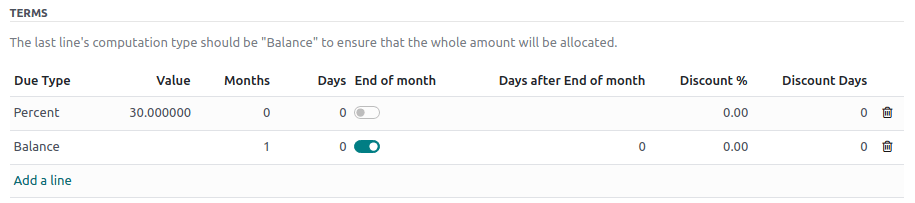
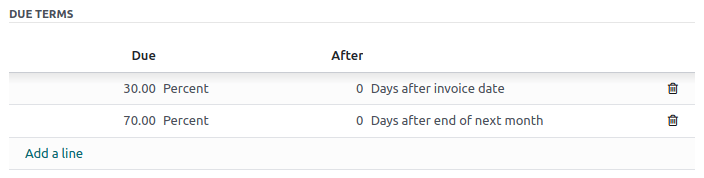
[IMP] accounting: move cash discount tax reduction to payment term
task-3211595

closes odoo/documentation#5260

X-original-commit: ceda988a2912845fe941b134fbd9780058554c71

diff --git a/content/applications/finance/accounting/customer_invoices/cash_discounts.rst b/content/applications/finance/accounting/customer_invoices/cash_discounts.rst
@@ -5,7 +5,7 @@ Cash discounts and tax reduction
 **Cash discounts** are reductions in the amount a customer must pay for goods or services offered as
 an incentive for paying their invoice promptly. These discounts are typically a percentage of the
 total invoice amount and are applied if the customer pays within a specified time. Cash discounts
-can help the company maintain a steady cash flow.
+can help a company maintain a steady cash flow.
 
 .. example::
    You issue a €100 invoice on the 1st of January. The full payment is due within 30 days, and you
@@ -17,15 +17,46 @@ can help the company maintain a steady cash flow.
 A :ref:`tax reduction <cash-discounts/tax-reductions>` can also be applied depending on the country
 or region.
 
+.. seealso::
+   - :doc:`payment_terms`
+   - :doc:`../payments`
+
 .. _cash-discounts/configuration:
 
 Configuration
 =============
 
-To grant cash discounts to customers, you must first set up the :ref:`type of tax reduction
-<cash-discounts/tax-reductions>`, verify the :ref:`gain and loss accounts
-<cash-discounts/gain-loss-accounts>`, and configure new :ref:`payment terms
-<cash-discounts/payment-terms>`.
+To grant cash discounts to customers, you must first verify the :ref:`gain and loss accounts
+<cash-discounts/gain-loss-accounts>`. Then, configure :ref:`payment terms
+<cash-discounts/payment-terms>` and add a cash discount by checking the :guilabel:`Early Discount`
+checkbox and filling in the discount percentage, discount days, and :ref:`tax
+reduction <cash-discounts/tax-reductions>` fields.
+
+.. _cash-discounts/gain-loss-accounts:
+
+Cash discount gain/loss accounts
+--------------------------------
+
+With a cash discount, the amount you earn depends on whether the customer benefits from the cash
+discount or not. This inevitably leads to gains and losses, which are recorded on default accounts.
+
+To modify these accounts, go to :menuselection:`Accounting --> Configuration --> Settings`, and, in
+the :guilabel:`Default Accounts` section, select the accounts you want to use for the
+:guilabel:`Cash Discount Gain account` and :guilabel:`Cash Discount Loss account`.
+
+.. _cash-discounts/payment-terms:
+
+Payment terms
+-------------
+
+Cash discounts are defined on :doc:`payment terms <payment_terms>`. Configure them to your liking by
+going to :menuselection:`Accounting --> Configuration --> Payment Terms`, and make sure to fill out
+the discount percentage, discount days, and :ref:`tax reduction <cash-discounts/tax-reductions>`
+fields.
+
+.. image:: cash_discounts/payment-terms.png
+   :alt: Configuration of payment terms named "2/7 Net 30". The field "Description on Invoices"
+         reads: "Payment terms: 30 Days, 2% Early Payment Discount under 7 days".
 
 .. _cash-discounts/tax-reductions:
 
@@ -33,24 +64,24 @@ Tax reductions
 --------------
 
 Depending on the country or region, the base amount used to compute the tax can vary, which can lead
-to a **tax reduction**.
+to a **tax reduction**. Since tax reductions are set on individual payment terms, each term can use
+a specific tax reduction.
 
-To configure how the tax reduction is applied, go to :menuselection:`Accounting --> Configuration
---> Settings`, and in the :guilabel:`Taxes` section, in the :guilabel:`Cash Discount Tax Reduction`
-feature, select one of the three following options:
+To configure how the tax reduction is applied, go to a payment term with the :guilabel:`Early
+Discount` checkbox enabled, and select one of the three following options:
 
-Always (upon invoice)
-  The tax is always reduced. The base amount used to compute the tax is the discounted amount,
-  whether the customer benefits from the discount or not.
+- Always (upon invoice)
+    The tax is always reduced. The base amount used to compute the tax is the discounted amount,
+    whether the customer benefits from the discount or not.
 
-On early payment
-  The tax is reduced only if the customer pays early. The base amount used to compute the tax is the
-  same as the sale: if the customer benefits from the reduction, then the tax is reduced. This means
-  that, depending on the customer, the tax amount can vary after the invoice is issued.
+- On early payment
+    The tax is reduced only if the customer pays early. The base amount used to compute the tax is the
+    same as the sale: if the customer benefits from the reduction, then the tax is reduced. This means
+    that, depending on the customer, the tax amount can vary after the invoice is issued.
 
-Never
-  The tax is never reduced. The base amount used to compute the tax is the full amount, whether the
-  customer benefits from the discount or not.
+- Never
+    The tax is never reduced. The base amount used to compute the tax is the full amount, whether the
+    customer benefits from the discount or not.
 
 .. example::
 
@@ -70,10 +101,10 @@ Never
               - Computation
             * - 8th of January
               - €118.58
-              - (€98 + (21% of €98))
+              - €98 + (21% of €98)
             * - 31st of January
               - €120.58
-              - (€100 + (21% of €98))
+              - €100 + (21% of €98)
 
       .. tab:: On early payment
 
@@ -85,10 +116,10 @@ Never
               - Computation
             * - 8th of January
               - €118.58
-              - (€98 + (21% of €98))
+              - €98 + (21% of €98)
             * - 31st of January
               - €121.00
-              - (€100 + (21% of €100))
+              - €100 + (21% of €100)
 
       .. tab:: Never
 
@@ -100,10 +131,10 @@ Never
               - Computation
             * - 8th of January
               - €119.00
-              - (€98 + (21% of €100))
+              - €98 + (21% of €100)
             * - 31st of January
               - €121.00
-              - (€100 + (21% of €100))
+              - €100 + (21% of €100)
 
 .. note::
    - :ref:`Tax grids <tax-returns/tax-grids>`, which are used for the tax report, are correctly
@@ -112,41 +143,12 @@ Never
    - The **type of cash discount tax reduction** may be correctly pre-configured, depending on your
      :ref:`fiscal localization package <fiscal_localizations/packages>`.
 
-.. _cash-discounts/gain-loss-accounts:
-
-Cash discount gain/loss accounts
---------------------------------
-
-With a cash discount, the amount you earn depends on whether the customer benefits from the cash
-discount or not. This inevitably leads to gains and losses, which are recorded on default accounts.
-
-To modify these accounts, go to :menuselection:`Accounting --> Configuration --> Settings`, and in
-the :guilabel:`Default Accounts` section, select the accounts you want to use for the
-:guilabel:`Cash Discount Gain account` and :guilabel:`Cash Discount Loss account`.
-
-.. _cash-discounts/payment-terms:
-
-Payment terms
--------------
-
-Cash discounts are defined on :doc:`payment terms <payment_terms>`. Configure them to your liking by
-going to :menuselection:`Accounting --> Configuration --> Payment Terms`, and make sure to fill out
-the fields :guilabel:`Discount %` and :guilabel:`Discount Days`.
-
-.. image:: cash_discounts/payment-terms.png
-   :align: center
-   :alt: Configuration of payment terms named "2/7 Net 30". The field "Description on Invoices"
-         reads: "Payment terms: 30 Days, 2% Early Payment Discount under 7 days".
-
-.. seealso::
-   :doc:`payment_terms`
-
 .. _cash-discounts/customer-invoice:
 
 Apply a cash discount to a customer invoice
 ===========================================
 
-Apply a cash discount to a customer invoice by selecting the :ref:`payment terms you created
+On a customer invoice, apply a cash discount by selecting the :ref:`payment terms you created
 <cash-discounts/payment-terms>`. Odoo automatically computes the correct amounts, tax amounts, due
 dates, and accounting records.
 
@@ -154,26 +156,23 @@ Under the :guilabel:`Journal Items` tab, you can display the discount details by
 "toggle" button and adding the :guilabel:`Discount Date` and :guilabel:`Discount Amount` columns.
 
 .. image:: cash_discounts/invoice-journal-entry.png
-   :align: center
    :alt: An invoice of €100.00 with "2/7 Net 30" selected as payment terms. The "Journal Items" tab
          is open, and the "Discount Date" and "Discount Amount" columns are displayed.
 
-The discount amount and due date are also displayed on the generated invoice sent to the customer.
+The discount amount and due date are also displayed on the generated invoice report sent to the
+customer if the :guilabel:`Show installment dates` option is checked on the payment terms.
 
 .. image:: cash_discounts/invoice-print.png
-   :align: center
-   :alt: An invoice of €100.00 with the following text added to the terms and conditions: "30 Days,
-         2% Early Payment Discount under 7 days. 118.58 € due if paid before 01/08/2023."
+   :alt: An invoice of €100.00 with the following text added to the terms and conditions: "30
+         Days, 2% Early Payment Discount under 7 days. 118.58 € due if paid before 01/08/2023."
 
 Payment reconciliation
 ----------------------
 
-When you record a payment or reconcile your bank statements, Odoo takes the customer payment's date
-into account to define if they can benefit from the cash discount or not.
+When you record a :doc:`payment <../payments>` or :doc:`reconcile your bank transactions
+<../bank/reconciliation>`, Odoo takes the customer payment's date into account to determine if the
+customer can benefit from the cash discount or not.
 
 .. note::
-   If your customer pays the discount amount *after* the discount date, you can always decide
-   whether to mark the invoice as fully paid with a write-off or as partially paid.
-
-.. seealso::
-   :doc:`../payments`
+   If your customer pays the discount amount *after* the discount date, you can always decide to
+   mark the invoice as fully paid with a write-off or as partially paid.

diff --git a/content/applications/finance/accounting/customer_invoices/payment_terms.rst b/content/applications/finance/accounting/customer_invoices/payment_terms.rst
@@ -49,43 +49,41 @@ To create new payment terms, follow these steps:
 
 #. Go to :menuselection:`Accounting --> Configuration --> Payment Terms` and click on
    :guilabel:`New`.
-#. Enter a name in the :guilabel:`Payment Terms` field. This field is the name displayed in the
-   database and is not customer-facing.
-#. Enter the text to be displayed on the document (sales order, invoice, etc.) in the
-   :guilabel:`Description on the Invoice` field.
-#. Tick the :guilabel:`Display terms on invoice` checkbox to display a breakdown of each payment and
-   its due date on the invoice report, if desired.
-#. In the :guilabel:`Terms` section, add a set of rules (terms) to define what needs to be paid and
-   by which due date(s). Defining terms automatically calculates the payments' due date(s). This is
-   particularly helpful for managing **installment plans** (:dfn:`payment terms with multiple
+#. Enter a name in the :guilabel:`Payment Terms` field. This field is the name displayed both
+   internally and on sales orders.
+#. Tick the :guilabel:`Early Discount` checkbox and fill out the discount percentage, discount days,
+   and :ref:`tax reduction <cash-discounts/tax-reductions>` fields to add a :doc:`cash discount
+   <cash_discounts>`, if desired.
+#. In the :guilabel:`Due Terms` section, add a set of rules (terms) to define what needs to be paid
+   and by which due date(s). Defining terms automatically calculates the payments' due date(s). This
+   is particularly helpful for managing **installment plans** (:dfn:`payment terms with multiple
    terms`).
 
-   To add a term, click on :guilabel:`Add a line`, define its :guilabel:`Due Type` and
-   :guilabel:`Value`, and fill out the appropriate fields to define when the term is due, including
-   any :doc:`discounts <cash_discounts>`. Due dates are calculated by taking the invoice/bill date,
-   first adding the :guilabel:`Months`, and then adding the :guilabel:`Days`. If the :guilabel:`End
-   of month` toggle is enabled, the due date will then be the end of that month, plus any
-   :guilabel:`Days after End of month`.
+   To add a term, click on :guilabel:`Add a line`, define the discount's value and type in the
+   :guilabel:`Due` fields, then fill out the :guilabel:`After` fields to determine the due date.
+#. Enter the text to be displayed on the document (sales order, invoice, etc.) in the gray textbox
+   in the :guilabel:`Preview` column.
+#. Tick the :guilabel:`Show installment dates` checkbox to display a breakdown of each payment and
+   its due date on the invoice report, if desired.
 
 .. tip::
    To instead specify a number of days *before the end of the month*, use a negative value in the
-   :guilabel:`Days after End of month` field.
+   :guilabel:`After` field.
 
-To test that your payment terms are configured correctly, enter an invoice amount and invoice date
-in the :guilabel:`Example` section to generate the payments that would be due and their due dates
+To test that your payment terms are configured correctly, enter an invoice date on the
+:guilabel:`Example` line to generate the payments that would be due and their due dates
 using these payment terms.
 
 .. important::
-   - Terms are computed in the order of their due dates.
-   - The **balance** should always be used for the last line.
+   Terms are computed in the order of their due dates.
 
 .. example::
-   In the following example, 30% is due on the day of issuance, and the balance is due at the end of
-   the following month.
+   In the following example, 30% is due on the day of issuance, and the remaining 70% is due at the
+   end of the following month.
 
    .. image:: payment_terms/configuration.png
-      :alt: Example of Payment Terms. The last line is the balance due on the 31st of the following
-            month.
+      :alt: Example of Payment Terms. The first line is the 30% due immediately. The second line is
+            the remaining 70% due at the end of the following month.
 
 Using payment terms
 ===================
@@ -126,7 +124,7 @@ due date into account, rather than just the balance due date. It also helps to g
             distinct due dates
 
    In this example, an invoice of $1000 has been issued with the following payment terms: *30% is
-   due on the day of issuance, and the balance is due at the end of the following month.*
+   due on the day of issuance, and the remaining 70% is due at the end of the following month.*
 
    +----------------------+-------------+---------+---------+
    | Account              | Due date    | Debit   | Credit  |
